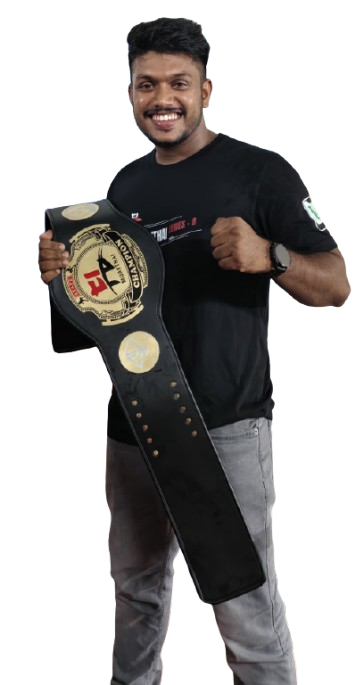
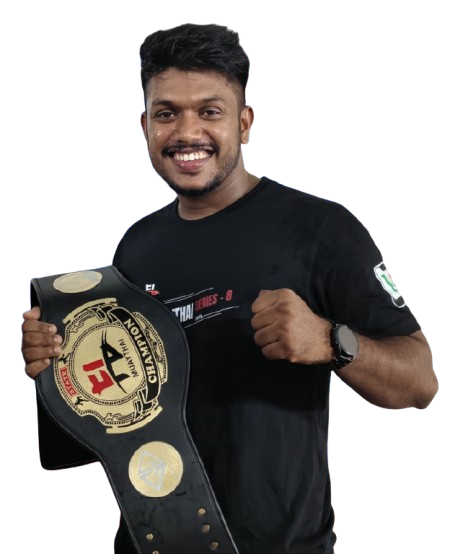
working on bg image

diff --git a/app/sections/Founder.jsx b/app/sections/Founder.jsx
@@ -10,14 +10,14 @@ export default function Founder() {
                     {/* Background Images Wrapper */}
                     <div className="flex flex-col gap-3 w-full">
                         <Image
-                            src='/assets/images/founder2.jpg'
+                            src='/assets/images/coach-akhil-img1.jpg'
                             alt="background top"
                             width={600}
                             height={150}
                             className="founder-bg h-42 md:h-52 w-full object-cover rounded-lg grayscale object-[center_38%]"
                         />
                         <Image
-                            src='/assets/images/founder1.jpeg'
+                            src='/assets/images/coach-akhil-img2.jpg'
                             alt="background bottom"
                             width={600}
                             height={150}
@@ -28,7 +28,7 @@ export default function Founder() {
                     {/* Main Founder Image: Centered Overlay */}
                     <div className="absolute inset-0 mb-8 md:mb-0 flex items-center justify-center">
                         <Image
-                            src='/assets/images/founder.png'
+                            src='/assets/images/coach-akhil-main-image.png'
                             alt="Founder"
                             width={400}
                             height={400}
